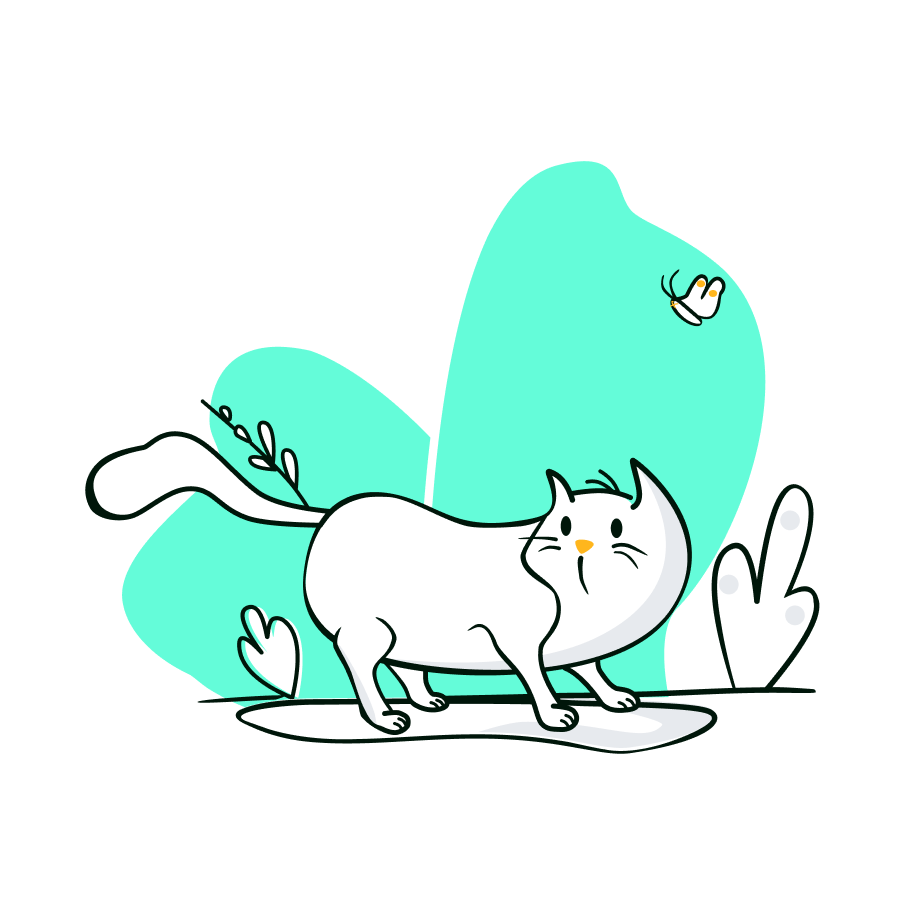
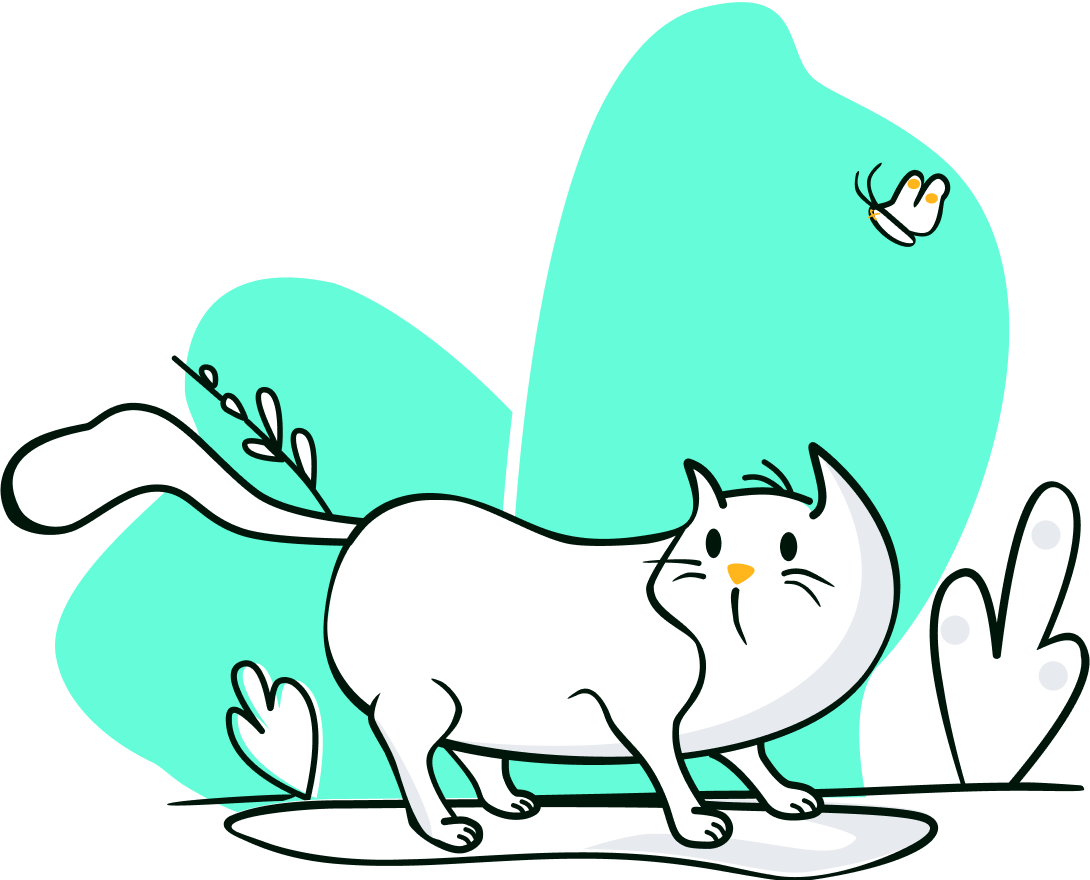
feat: onboarding screen & mmkv

Changed region(s): [[0.0, 0.0, 1.0, 1.0]]

diff --git a/src/screens/OnboardingScreen.tsx b/src/screens/OnboardingScreen.tsx
@@ -1,11 +1,14 @@
 import {View, Text, TouchableOpacity, Image, Dimensions} from 'react-native';
 import {createStyleSheet, useStyles} from 'react-native-unistyles';
+import {storage} from '@/utils/storage';
 
-const {height} = Dimensions.get('screen');
+const {width, height} = Dimensions.get('screen');
 const smallScreen = height < 700;
 
 export const OnboardingScreen = () => {
   const {styles} = useStyles(stylesheet);
+
+  const handleSetOnboarding = () => storage.set('isOnboardingComplete', true);
 
   return (
     <View style={styles.container}>
@@ -15,7 +18,9 @@ export const OnboardingScreen = () => {
       />
       <Text style={styles.title}>Feel inspired, and keep meowtivated.</Text>
       <Text style={styles.description}>🐈 We're glad you're here</Text>
-      <TouchableOpacity activeOpacity={0.7} style={styles.button}>
+      <TouchableOpacity
+        onPress={handleSetOnboarding}
+        style={styles.button}>
         <Text style={styles.buttonText}>Get Started</Text>
       </TouchableOpacity>
     </View>
@@ -34,6 +39,7 @@ const stylesheet = createStyleSheet({
   title: {
     color: 'black',
     fontSize: smallScreen ? 38 : 48,
+    lineHeight: smallScreen ? 38 : 48,
     fontWeight: 'bold',
     alignSelf: 'flex-start',
   },
@@ -58,6 +64,7 @@ const stylesheet = createStyleSheet({
   },
   image: {
     height: height / 2,
+    width: width - (smallScreen ? 20 : 40),
     objectFit: 'contain',
   },
 });

diff --git a/src/utils/storage.ts b/src/utils/storage.ts
@@ -1,0 +1,3 @@
+import {MMKV} from 'react-native-mmkv';
+
+export const storage = new MMKV();
